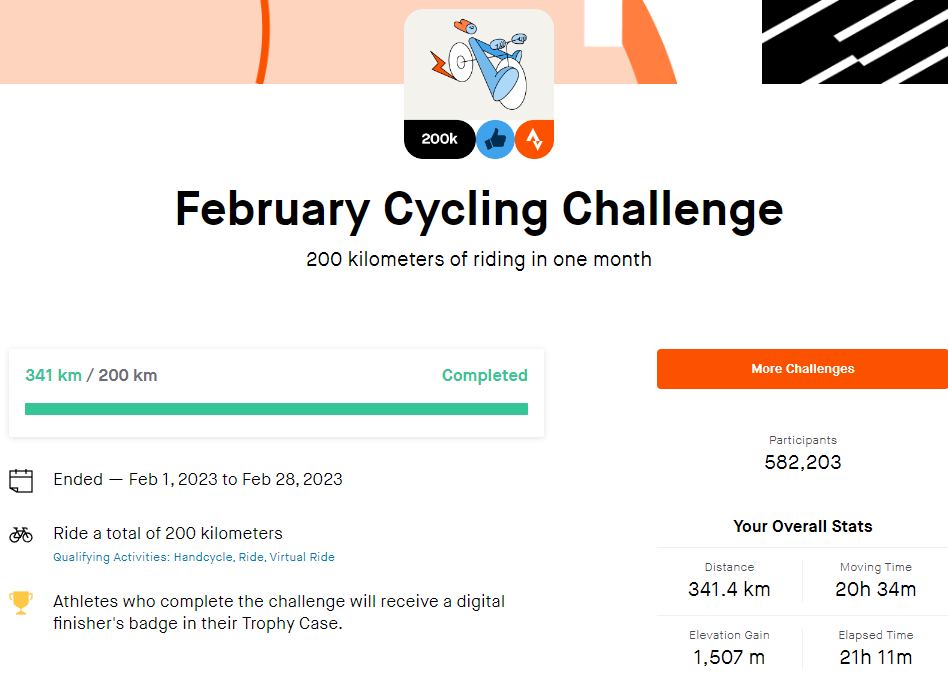
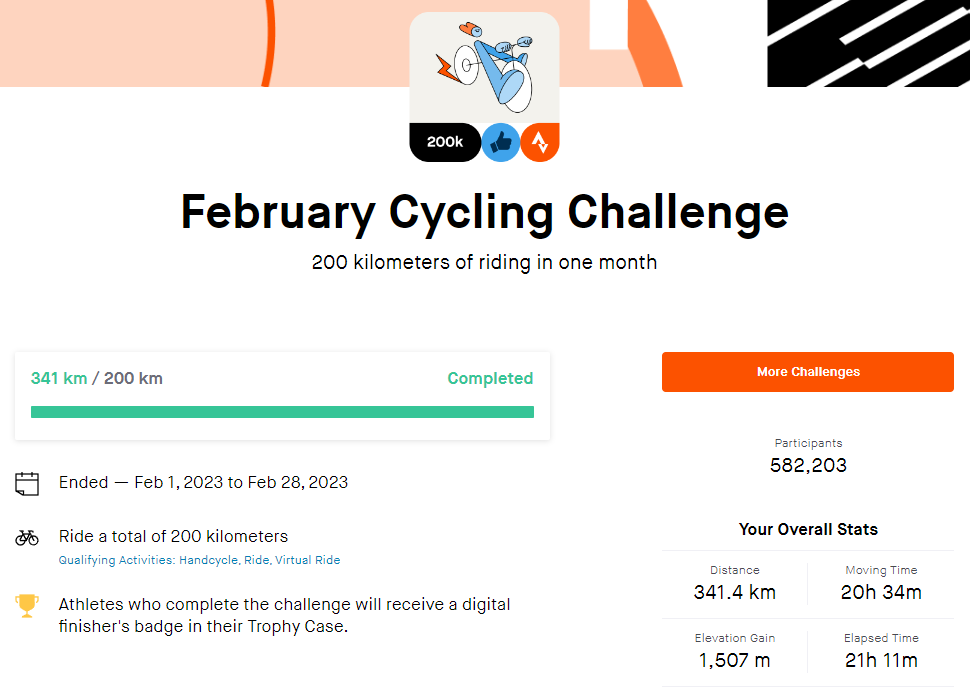
-

diff --git a/_posts/2023-03-05-feb-2023-200km.md b/_posts/2023-03-05-feb-2023-200km.md
@@ -4,8 +4,8 @@ date: 2023-03-05 12:00:00 +0800
 category: Personal
 image:
   path: /images/strava-200km-2023-02-desktop.png
-  width: 948   # in pixels
-  height: 683   # in pixels
+  width: 970   # in pixels
+  height: 700   # in pixels
 ---
 
 # Strava February 2023 Cycling Challenge - 200 Kilometers Of Riding In 1 Month. 
